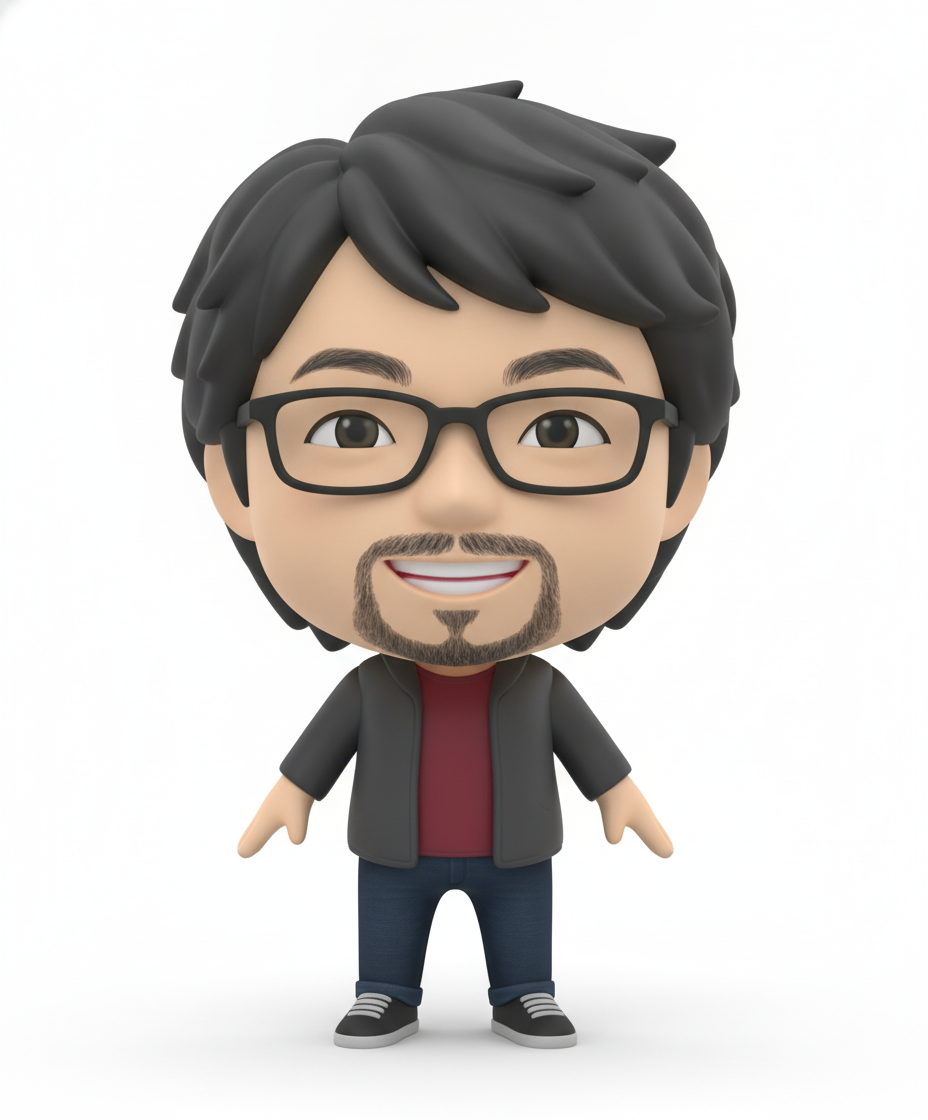
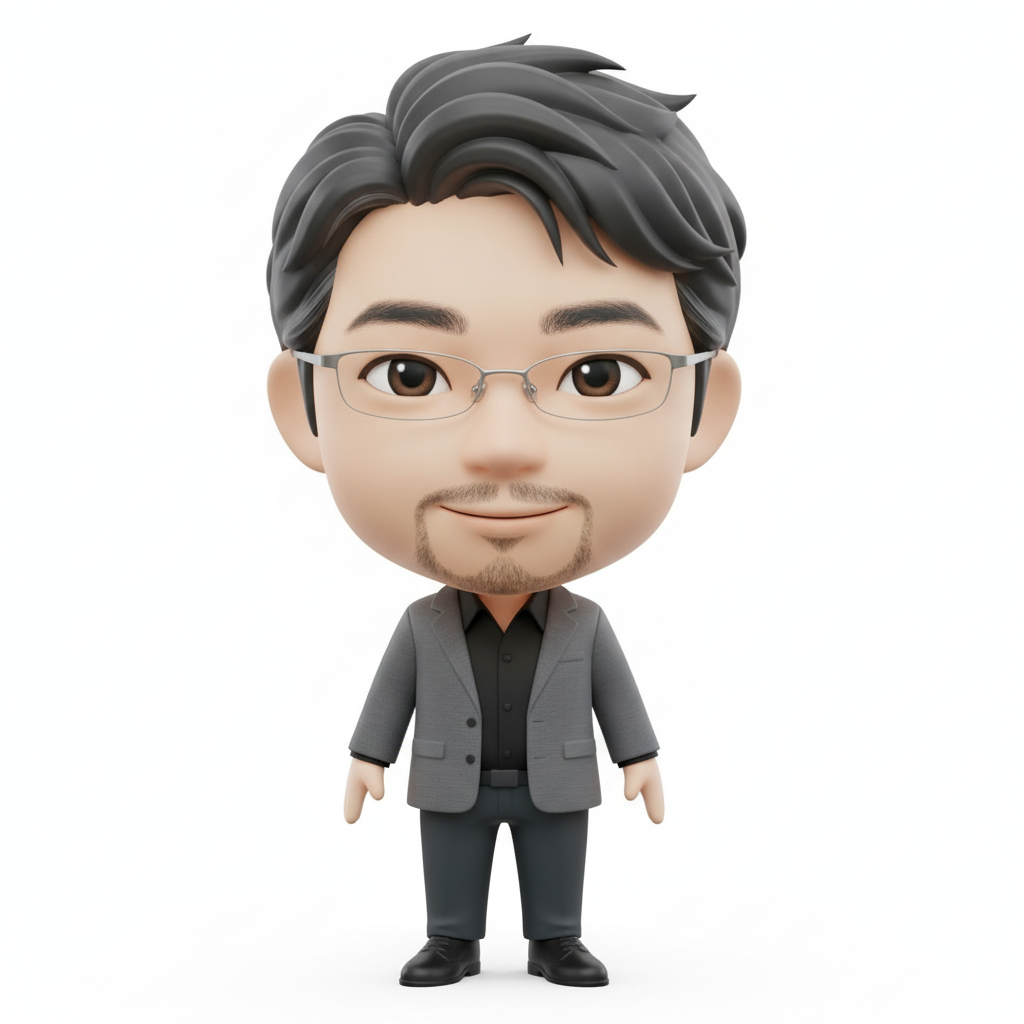
まつもとゆきひろさんの絵を、ユーザーの写真を元に作り直す（細い銀のメガネ、短い無精ひげ、グレーの上着）
Claude-Session: https://claude.ai/code/session_01UupCd3rxp47hH3nhEHM2YW

Changed region(s): [[0.1875, 0.0312, 0.8125, 0.9688]]

diff --git a/src/data.js b/src/data.js
@@ -327,10 +327,10 @@ export const LEGENDS = [
       'Ruby on Railsの登場で、世界中のWeb開発に広まる（2004年〜）',
       '日本で生まれた言語として初めて国際規格（ISO）になる（2012年）',
     ],
-    look: { skin: 0xf0cfb4, hairStyle: 'short', hairColor: 0x1d1a1a, shirt: 0xb3262e },
-    // 写真が白黒なので、色はここで決める
-    face: 'an East Asian Japanese man in his fifties with thick, slightly messy black hair with a few gray strands, thin dark rectangular glasses, a short black beard and mustache with a little gray, and a big warm smile',
-    outfit: 'a dark gray casual jacket over a deep red T-shirt, dark blue jeans and dark sneakers',
+    look: { skin: 0xf0cfb4, hairStyle: 'short', hairColor: 0x1d1a1a, shirt: 0x5a5a60 },
+    // ユーザーからもらった写真が元。メガネは細い銀のふち（下半分にふちがない）、ひげは短い無精ひげ
+    face: 'an East Asian Japanese man in his fifties with thick black hair with some gray strands, short on the sides and swept up and slightly messy on top; thin silver half-rim glasses with narrow rectangular lenses and no frame on the bottom of the lenses; short light stubble around the mouth and on the chin, a thin mustache, not a full beard; a gentle, kind smile with slightly narrowed eyes',
+    outfit: 'a gray textured blazer over a black collared shirt with the top button open, dark gray trousers and black leather shoes',
   },
 ];
 

diff --git a/pipeline/photos/SOURCES.md b/pipeline/photos/SOURCES.md
@@ -4,4 +4,4 @@
 - gates: https://upload.wikimedia.org/wikipedia/commons/d/d9/Bill_Gates_at_the_European_Commission_-_P067383-987995_%28cropped%29_5.jpg?utm_source=en.wikipedia.org&utm_campaign=api&utm_content=thumbnail_unscaled (https://en.wikipedia.org/wiki/Bill_Gates)
 - bezos: https://upload.wikimedia.org/wikipedia/commons/f/fc/260202-D-PM193-2205_SECWAR_Arsenal_of_Freedom_Tour_-_Florida_%283x4_cropped_on_Bezos_and_rotated%29.jpg?utm_source=en.wikipedia.org&utm_campaign=api&utm_content=thumbnail_unscaled (https://en.wikipedia.org/wiki/Jeff_Bezos)
 - ek: https://upload.wikimedia.org/wikipedia/commons/thumb/6/62/Daniel_Ek_%28Interview%29_%28cropped%29.jpg/250px-Daniel_Ek_%28Interview%29_%28cropped%29.jpg (https://en.wikipedia.org/wiki/Daniel_Ek 以前の版の写真。メガネのない姿にするため)
-- matz: https://upload.wikimedia.org/wikipedia/commons/thumb/5/57/Yukihiro_Matsumoto_%282018%29.jpg/250px-Yukihiro_Matsumoto_%282018%29.jpg (https://en.wikipedia.org/wiki/Yukihiro_Matsumoto 白黒写真なので色は face/outfit で指定)
+- matz: ユーザーからもらった写真（ピンクの背景、グレーの上着）。白黒の Wikipedia 写真から差し替え
